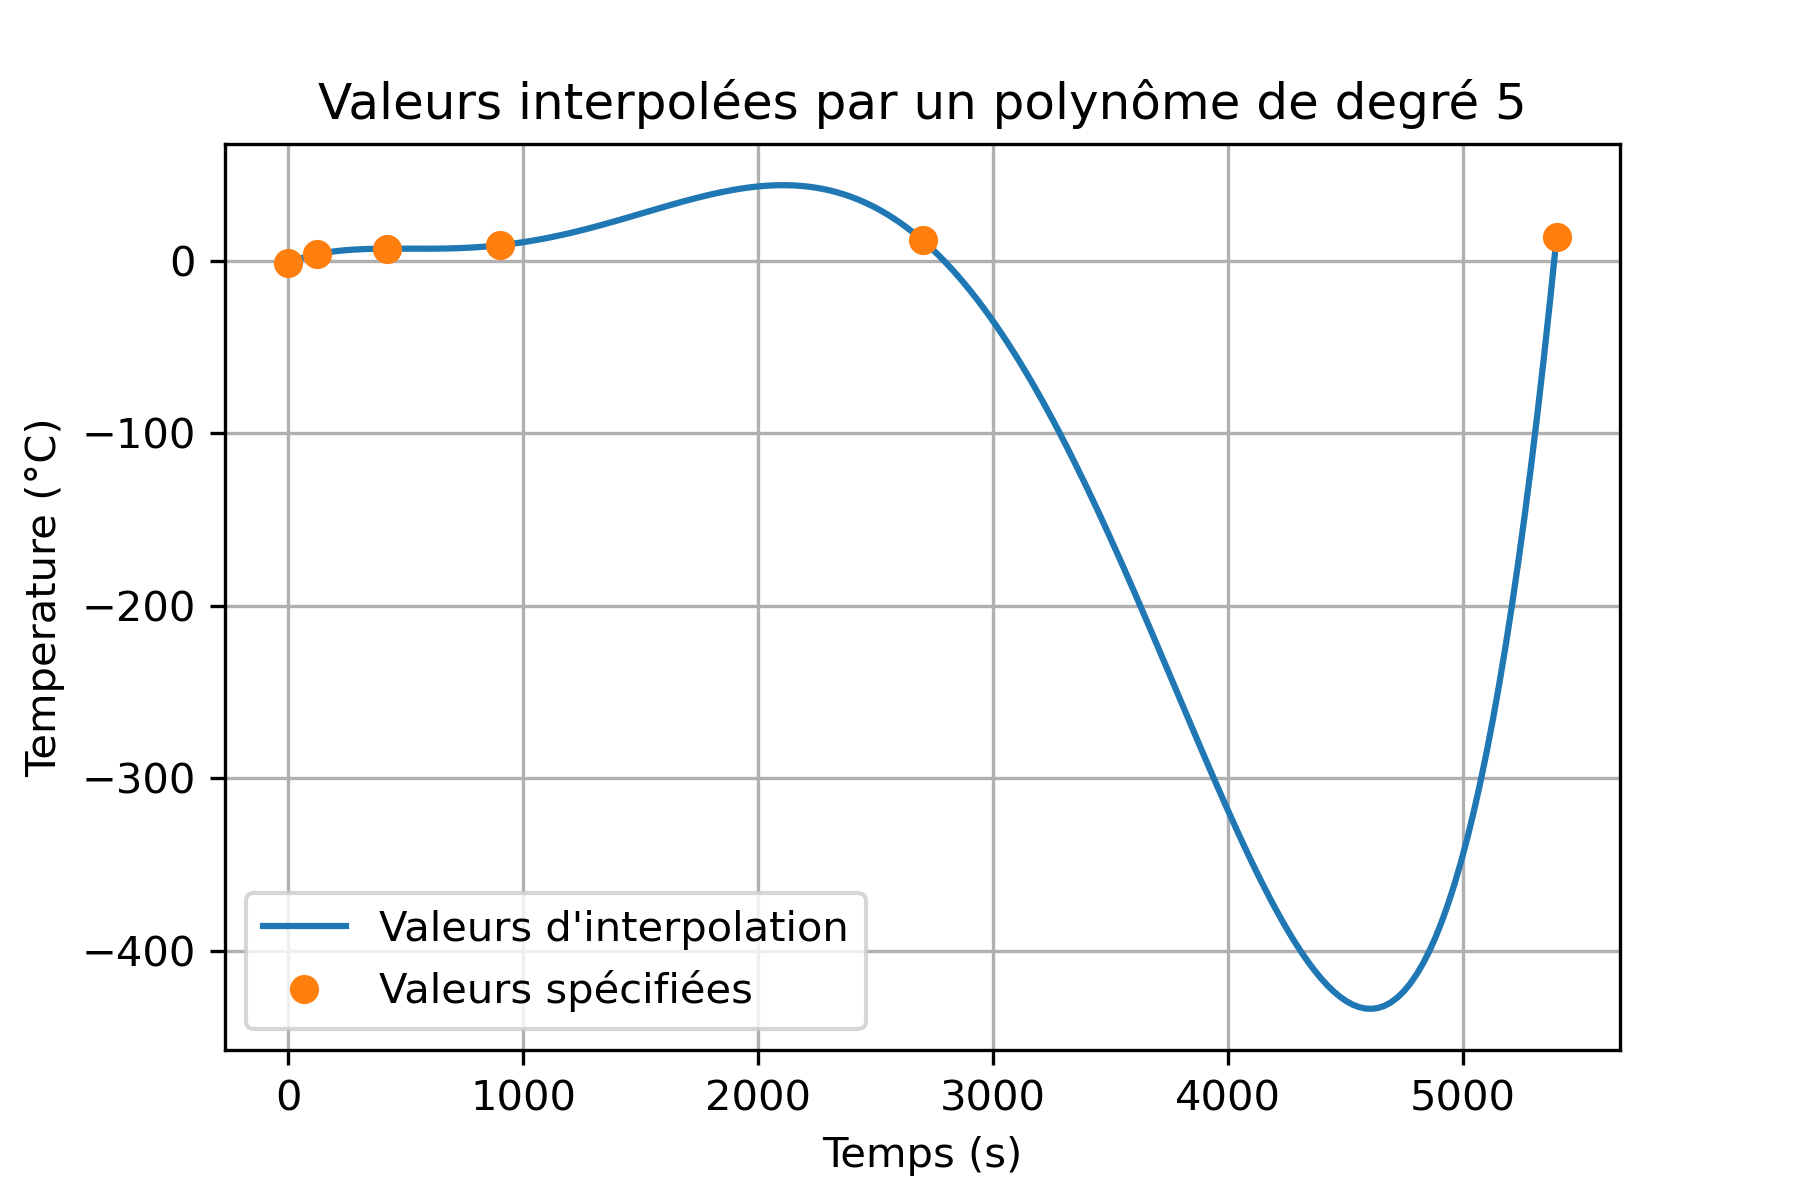
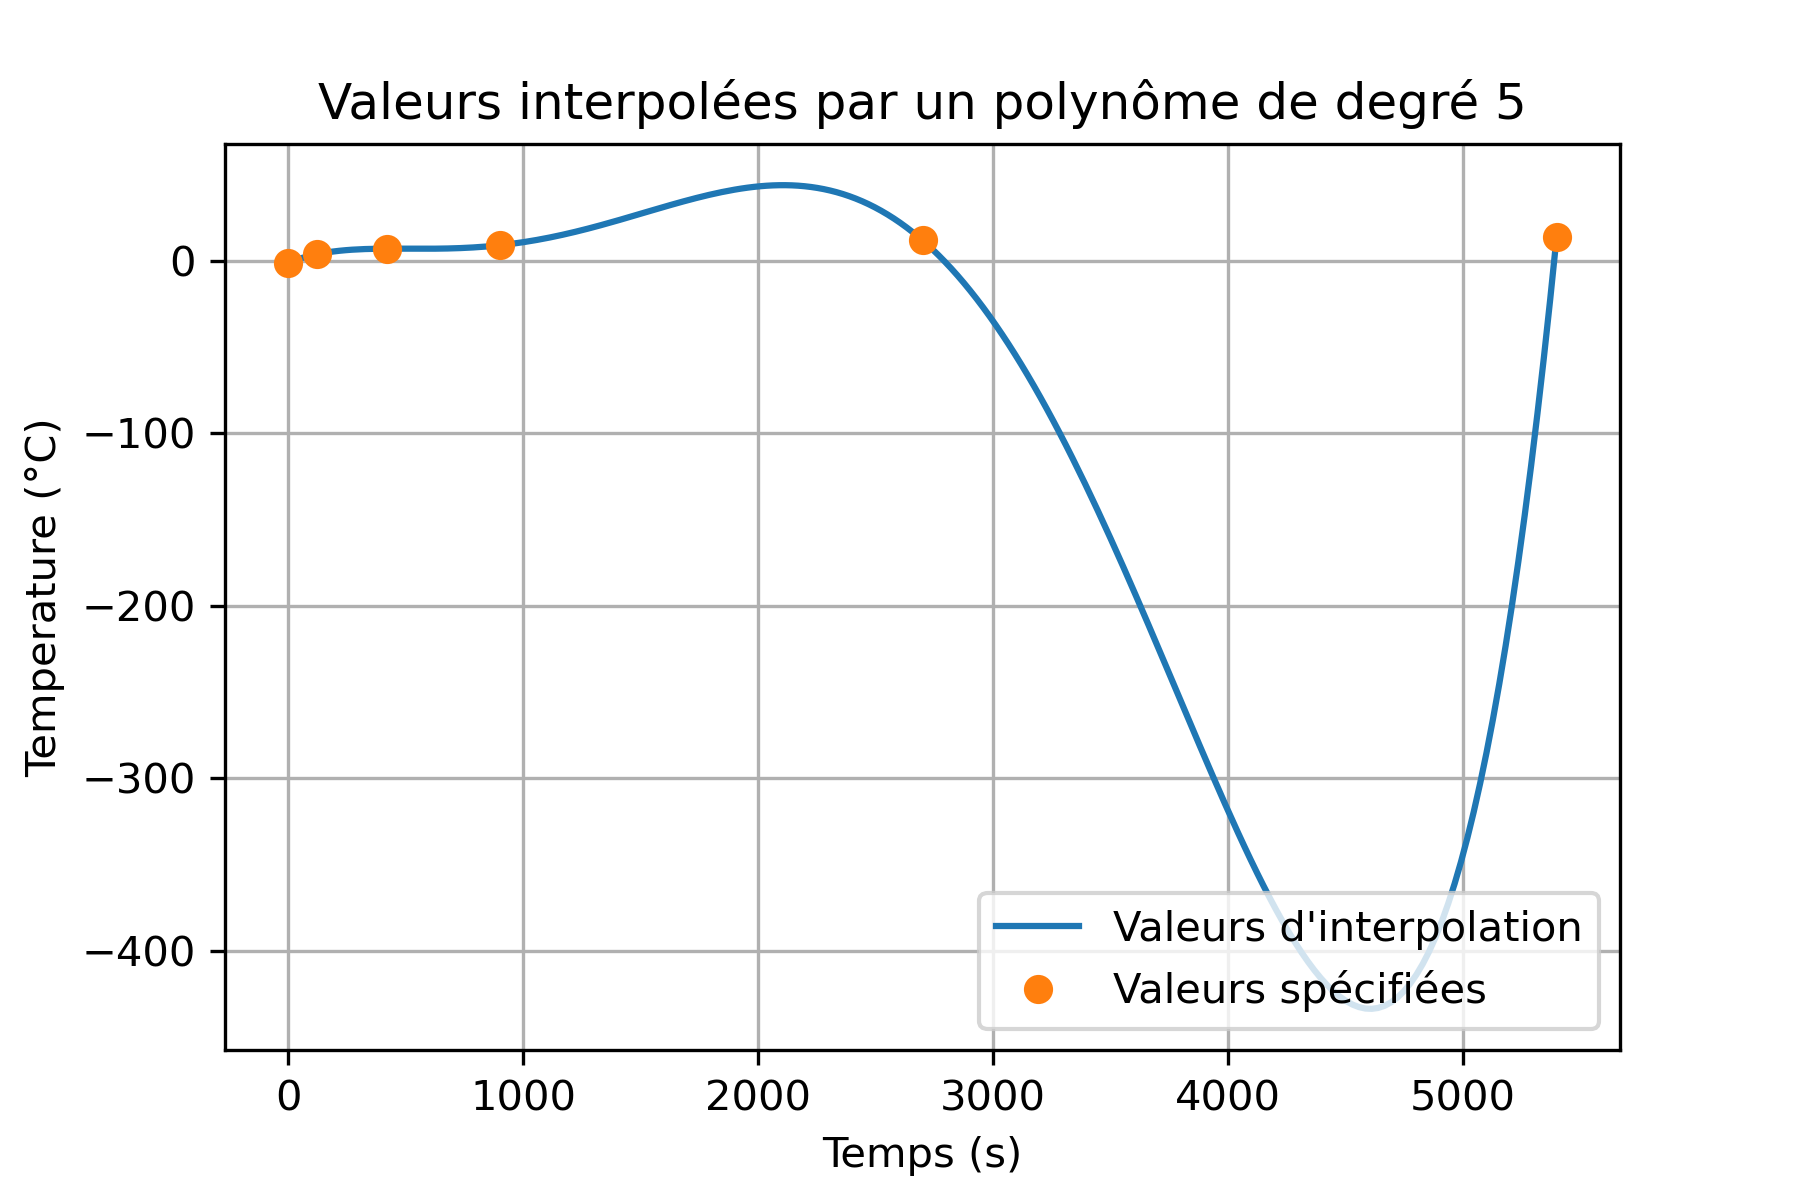
Création fonction nombre_de_points

Changed region(s): [[0.5289, 0.74, 0.9022, 0.8633], [0.1244, 0.74, 0.4978, 0.8633]]

diff --git a/patinoire_analyse.py b/patinoire_analyse.py
@@ -32,8 +32,8 @@ prm = parametre()
 tf = 5400
 Z = [0,prm.zb+prm.zg]
 nx = 2
-nz = 10
-dt = 60
+nz = nombre_de_points(28)
+dt = 120
 tf = 5400
 
 temperature_glace_experimental = np.array([-1.00,-6.35,-5.85,-5.50,-3.60,-3.25],dtype=float)
@@ -41,7 +41,6 @@ temps_temperature_experimental = t_test = np.array([0,2,7,15,45,90],dtype=int)
 #-----------------------------------------------------------------------------
 
 #Identifier pas adéquat de simulation (temporel et physique)
-
 
 
 temperature_glace = mdf_1D_transitoire(Z,nz,prm,dt,tf)
@@ -67,17 +66,17 @@ for i in range(len(temps)):
     
 temperature_air = [-1, 3.81 , 7.07 , 9.06 , 11.92 , 13.73 ] 
 
-fonction_plot([x,temps],[y , temperature_air], ["Valeurs d'interpolation","Valeurs spécifiées"],["solid"," "],["","o"], 
-                      xlabel='Temps (s)', 
-                      ylabel='Temperature (°C)', 
-                      title="Valeurs de température d'air interpolées et spécifiées", 
-                      savename="lagrange")
+# fonction_plot([x,temps],[y , temperature_air], ["Valeurs d'interpolation","Valeurs spécifiées"],["solid"," "],["","o"], 
+#                       xlabel='Temps (s)', 
+#                       ylabel='Temperature (°C)', 
+#                       title="Valeurs de température d'air interpolées et spécifiées", 
+#                       savename="lagrange")
 
-fonction_plot([x,temps],[interpoler(temps,temperature_air,x) , temperature_air], ["Valeurs d'interpolation","Valeurs spécifiées"],["solid"," "],["","o"], 
-                      xlabel='Temps (s)', 
-                      ylabel='Temperature (°C)', 
-                      title="Valeurs interpolées par un polynôme de degré 5", 
-                      savename="lagrange_deg5")
+# fonction_plot([x,temps],[interpoler(temps,temperature_air,x) , temperature_air], ["Valeurs d'interpolation","Valeurs spécifiées"],["solid"," "],["","o"], 
+#                       xlabel='Temps (s)', 
+#                       ylabel='Temperature (°C)', 
+#                       title="Valeurs interpolées par un polynôme de degré 5", 
+#                       savename="lagrange_deg5")
  
 
 
@@ -90,10 +89,10 @@ for i,t in enumerate(points_temps_sec):
 
 
 points_temps_min = np.arange(0,tf+dt,dt,dtype="float")/60
-fonction_plot([points_temps_min], [temperature_air,temperature_liquide[:,1]], ["Air","Glycol"],["solid","dashed"], ["",""], 
+fonction_plot([points_temps_min], [temperature_air,temperature_liquide[:,1],temperature_glace[1][-1,:]], ["Air","Glycol","Glace"],["solid","dashed","solid"], ["","",""], 
               xlabel="Temps [min]",
               ylabel="Température [C°]",
-              title="Évolution de la température de l'air et du glycol",
+              title="Évolution de la température de l'air, du glycol et de la glace",
               savename="temp_glycol_air")
 
 

diff --git a/patinoire_corr.py b/patinoire_corr.py
@@ -31,29 +31,10 @@ class Test:
         dt = 60
         tf = 5400
         
-        T = np.array([-1.00,-6.35,-5.85,-5.50,-3.60,-3.25],dtype=float)
-        t_test = np.array([0,2,7,15,45,90],dtype=int)
+        T = np.array([-1.00,-5.50,-3.25],dtype=float)
+        t_test = np.array([0,15,90],dtype=int)
         rep_mdf = mdf_1D_transitoire(Z,nz,prm,dt,tf)
-        test_T = np.zeros(6)
-        for i,t in enumerate(t_test) : 
-            test_T[i] = rep_mdf[1][-1,t]
-            
-        err_mdf = abs(np.asarray(test_T - T))
-        
-    
-        assert (all(err_mdf < 5))
-    
-    def test_mdf_permanent(self):
-        Z = [0,prm.zb+prm.zg]
-    
-        nz = 100
-        dt = 60
-        tf = 5400
-        
-        T = np.array([-1.00,-6.35,-5.85,-5.50,-3.60,-3.25],dtype=float)
-        t_test = np.array([0,2,7,15,45,90],dtype=int)
-        rep_mdf = mdf_1D_permanent(Z,nz,prm,dt,tf)
-        test_T = np.zeros(6)
+        test_T = np.zeros(3)
         for i,t in enumerate(t_test) : 
             test_T[i] = rep_mdf[1][-1,t]
             
@@ -62,5 +43,22 @@ class Test:
     
         assert (all(err_mdf < 2))
     
+    def test_mdf_permanent(self):
+        Z = [0,prm.zb+prm.zg]
+        nz = 10
+        dt = 60
+        tf = 5400
+        
+        T = np.array([-3.25],dtype=float)
+        t_test = np.array([90],dtype=int)
+        rep_mdf = mdf_1D_permanent(Z,nz,prm,dt,tf)
+        test_T = np.zeros(1)
+        for i,t in enumerate(t_test) : 
+            test_T[i] = rep_mdf[1][-1,t]
+            
+        err_mdf = abs(np.asarray(test_T - T))
+        
+    
+        assert (all(err_mdf < 2))
 
 

diff --git a/patinoire_fct.py b/patinoire_fct.py
@@ -212,7 +212,7 @@ def fonction_plot(x_data_list, y_data_list, list_labels, list_linestyles, list_m
         plt.grid()
     
     if legend:
-        plt.legend()
+        plt.legend(loc="lower right")
     
     if savename != '':
         path = "Images/" + savename+".png"
@@ -243,7 +243,7 @@ def mdf_1D_transitoire(Z_limit,nz,prm,dt,tf) :
     
     #Pas de discrétisation du domaine physique
     dz = abs((Z_limit[1]-Z_limit[0])/(nz-1))
-    
+    print(dz)
     ci = np.ones(nz)*prm.Ti
 
     points_temps = np.arange(0,tf+dt,dt,dtype="float")
@@ -414,5 +414,10 @@ def mesh_1D(Z,nz):
         zr = zr - dz #Ajoute la valeur du pas à la valeur de la ligne précédente
         z[i]=zr #Ajoute la nouvelle valeur à la ligne i
     return z
+
+def nombre_de_points(n):
+    point = 1 + n//3 * 3
+    return point
+    
 
 
